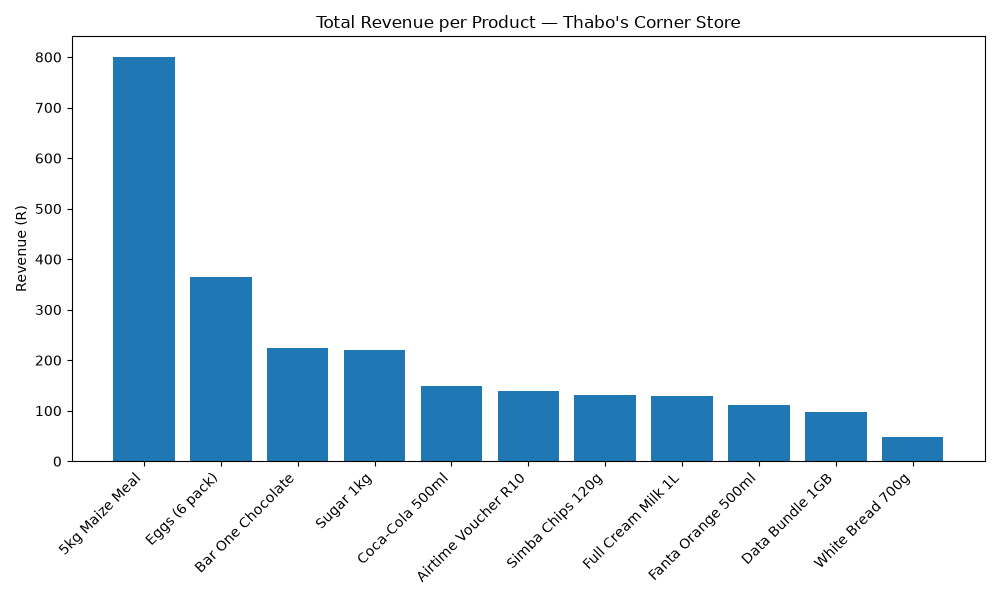
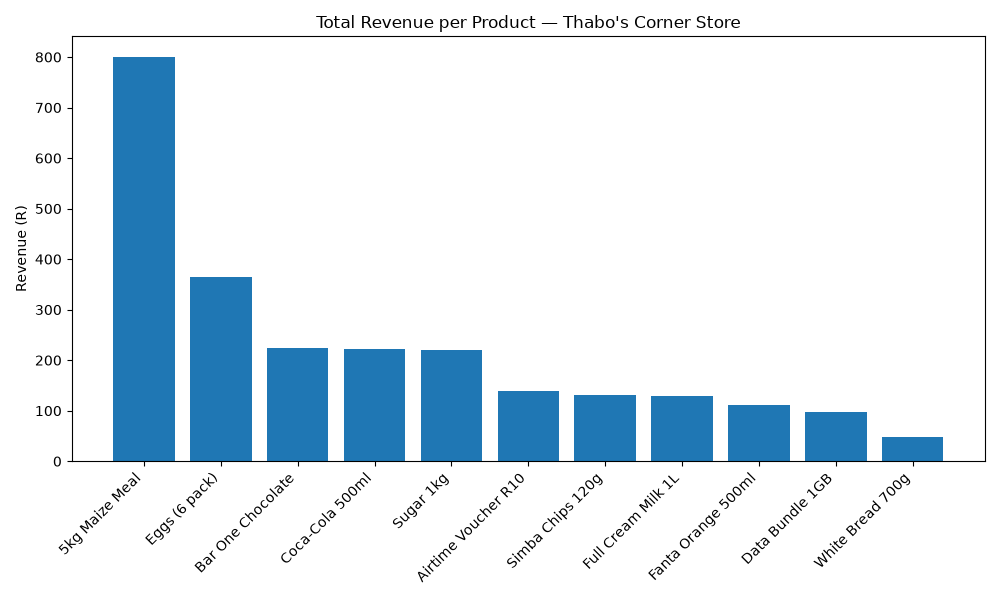
Combine revenue by product name

diff --git a/starter_code/database.py b/starter_code/database.py
@@ -147,7 +147,7 @@ def query_total_revenue_per_product(conn: sqlite3.Connection):
         FROM sales
         JOIN products
             ON sales.product_id = products.product_id
-        GROUP BY products.product_id, products.product_name
+        GROUP BY products.product_name
         ORDER BY total_revenue DESC
     """
     return conn.execute(sql).fetchall()
